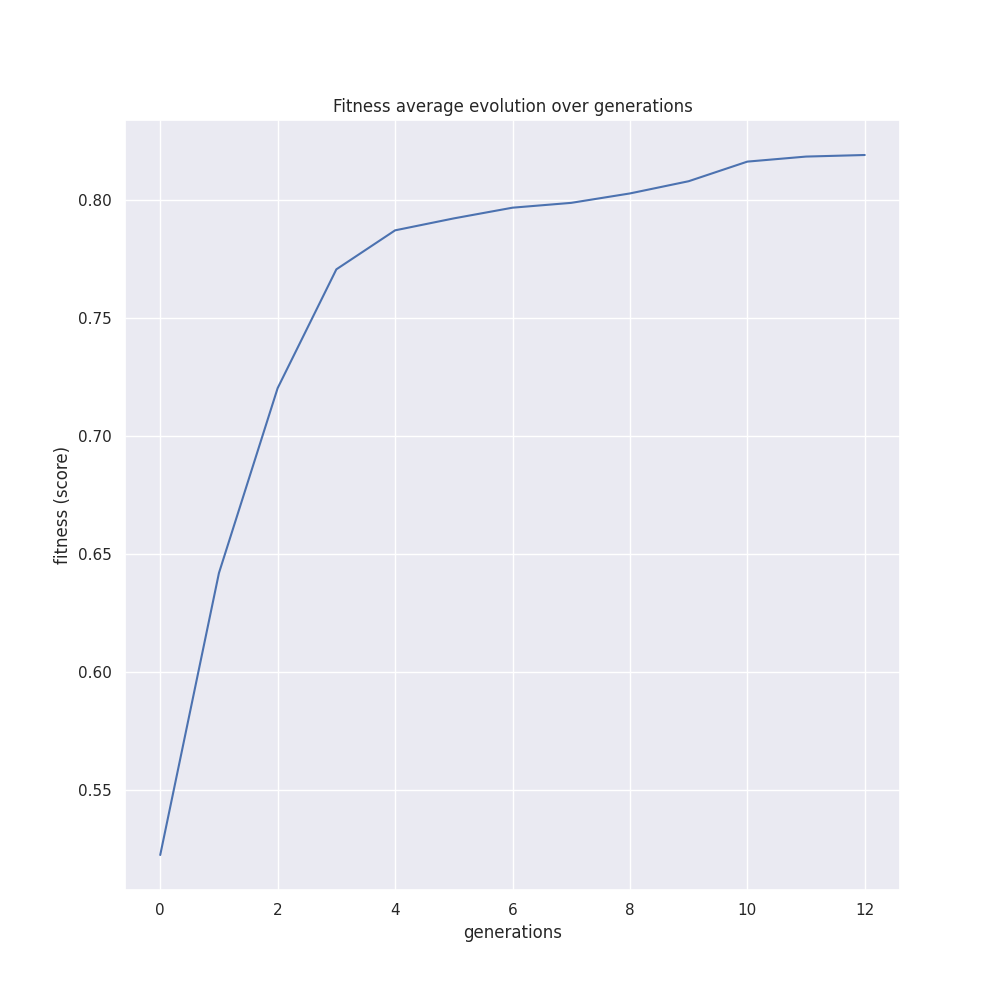
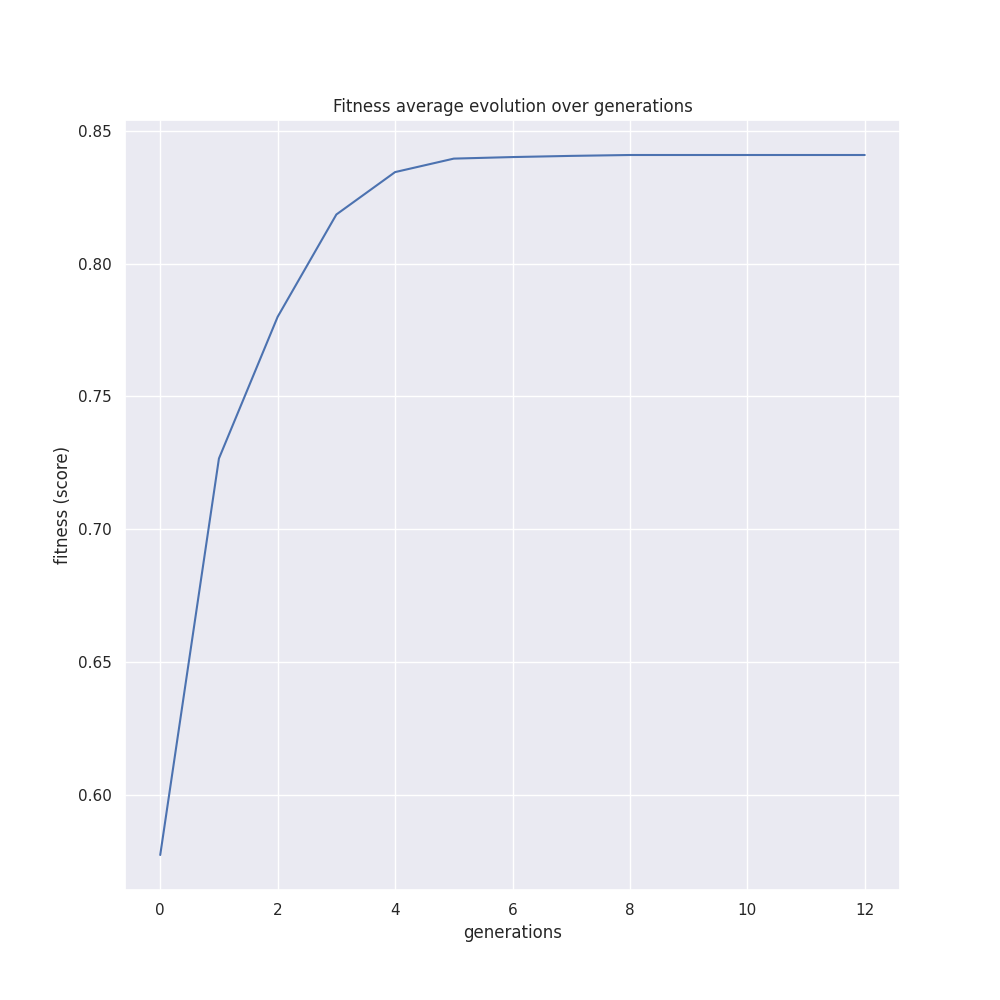
KNN now uses normalised scaling; neural network uses standard scaling still. Added gender to the X data. Various graphs had to be updated. NN params updated. Evaluation of knowledge algorithm underway.

diff --git a/helper.py b/helper.py
@@ -1,6 +1,6 @@
 import numpy as np
 import scipy.sparse
-from sklearn.preprocessing import MultiLabelBinarizer, StandardScaler
+from sklearn.preprocessing import MultiLabelBinarizer, MinMaxScaler, StandardScaler
 import pandas as pd
 from scipy import sparse
 import matplotlib.pyplot as plt
@@ -24,8 +24,13 @@ def generate_neurons(max_depth: int, average_neurons_per_layer: int) -> list:
         to_return.append(my_tuple)
     return to_return
 
-def scale_data(X: np.ndarray) -> np.ndarray:
-    scaler = StandardScaler(with_mean=True, copy=True)
+def normalise_data(X: np.ndarray) -> np.ndarray:
+    scaler = MinMaxScaler(copy=True)
+    scaler.fit(X)
+    return scaler.transform(X)
+
+def standardise_data(X: np.ndarray) -> np.ndarray:
+    scaler = StandardScaler(copy=True)
     scaler.fit(X)
     return scaler.transform(X)
 
@@ -93,22 +98,26 @@ def partial_accuracy_callable(coder_1, coder_2):
         total_accuracy += subtotal_accuracy
     return total_accuracy / len(coder_1)
 
-def get_data(data_file: str):
+def get_data(data_file: str, format="numpy"):
     """
     A function that extracts and transforms the data.
     :param data_file: A string representing the filename
-    :return: X, a multidimensional numpy array, and Y, a binary numpy array
+    :return: X, a multidimensional numpy array (if numpy is chosen; else pandas dataframe),
+    and Y, a binary numpy array (else list of lists)
     """
     training_set = pd.read_csv("Data/" + data_file)
     # Drop nuisance variables
-    training_set.drop(labels=['participant_id', 'gender', 'Coder', 'Explanation'], axis=1, inplace=True)
+    training_set.drop(labels=['participant_id', 'Coder', 'Explanation'], axis=1, inplace=True)
     # Don't forget to transform these variables to 0/1
     training_set['diabetes'] = [1 if x == 'yes' else 0 for x in training_set['diabetes']]
     training_set['chd'] = [1 if x == 'yes' else 0 for x in training_set['chd']]
-    X = training_set.drop(labels=['Labels'], axis=1).to_numpy()
+    training_set['gender'] = [1 if x == 'male' else 0 for x in training_set['gender']]
+    X = training_set.drop(labels=['Labels'], axis=1)
     Y = [[int(y) for y in x.split(",")] for x in training_set['Labels']]
-    Y_transformed = mlb.transform(Y)
-    return X, Y_transformed
+    if format=="numpy":
+        Y = mlb.transform(Y)
+        X = X.to_numpy()
+    return X, Y
 
 def count_mismatch_proportion(list1, list2) -> float:
     if len(list1) != len(list2):

diff --git a/sgd_neural_network.py b/sgd_neural_network.py
@@ -1,6 +1,6 @@
 from sklearn.neural_network import MLPClassifier
 from helper import get_data, partial_accuracy, inverse_transform, \
-    partial_accuracy_callable, scale_data, plot_label_accuracy
+    partial_accuracy_callable, standardise_data, plot_label_accuracy
 from sklearn.model_selection import train_test_split, KFold, cross_val_score
 import json
 from sklearn.metrics import hamming_loss, make_scorer, accuracy_score
@@ -11,7 +11,7 @@ import matplotlib.pyplot as plt
 
 X, Y = get_data("training_set.csv")
 # Make sure to scale X – very important!
-X = scale_data(X)
+X = standardise_data(X)
 x_train, x_test = train_test_split(X, train_size=0.8, random_state=101)
 y_train, y_test = train_test_split(Y, train_size=0.8, random_state=101)
 
@@ -24,7 +24,7 @@ neural_network = MLPClassifier(solver='sgd', activation='relu', learning_rate_in
                                hidden_layer_sizes=tuple(params['hidden_layer_sizes']),
                                power_t=params['power_t'],
                                momentum=params['momentum'],
-                               alpha=0.006, #seems like a good value from the graph
+                               alpha=0.0005, #best value from the graph
                                random_state=101)
 
 scores = cross_val_score(neural_network, X, Y,
@@ -68,7 +68,9 @@ print("The mean strict accuracy is ", mean(scores_strict_accuracy), "Stdev is ",
 neural_network.fit(x_train, y_train)
 print("Predictions ", inverse_transform(neural_network.predict(x_test)))
 print("Truth: ", inverse_transform(y_test))
+count = 0
 for labels in inverse_transform(y_test):
     if 11 in set(labels):
-        print("Truth has recommendation 11")
+        count += 1
+print("label 11 comes up ", count, " times")
 plot_label_accuracy(model_name="SGD Neural Network", truth=y_test, predictions=neural_network.predict(x_test))

diff --git a/knn.py b/knn.py
@@ -2,13 +2,13 @@ from skmultilearn.adapt import MLkNN, BRkNNaClassifier
 from sklearn.model_selection import GridSearchCV, train_test_split, KFold, cross_val_score
 from sklearn.metrics import hamming_loss, make_scorer, accuracy_score
 from helper import partial_accuracy, partial_accuracy_callable, \
-    count_mismatch_proportion, label_accuracy, get_data, inverse_transform, scale_data, plot_label_accuracy
+    count_mismatch_proportion, label_accuracy, get_data, inverse_transform, normalise_data, plot_label_accuracy
 import numpy as np
 from statistics import mean, stdev
 import matplotlib.pyplot as plt
 
 X, Y = get_data("training_set.csv")
-X = scale_data(X)
+X = normalise_data(X)
 x_train, x_test = train_test_split(X, train_size=0.8, random_state=101)
 y_train, y_test = train_test_split(Y, train_size=0.8, random_state=101)
 print(x_test.shape, y_test.shape)
@@ -24,7 +24,7 @@ def optimise_mlknn():
     print('best parameters :', classifier.best_params_, 'Best Hamming Loss: ',
           -1 * classifier.best_score_)
 
-optimise_mlknn()
+
 # Optimal params are k=19, s=0.5
 model = MLkNN(k=19, s=0.5)
 kfold = KFold(n_splits=5, random_state=101, shuffle=True)

diff --git a/optimise_sgd_nn.py b/optimise_sgd_nn.py
@@ -1,6 +1,6 @@
 from sklearn.neural_network import MLPClassifier
 from my_nn import my_nn
-from helper import get_data, partial_accuracy, inverse_transform, partial_accuracy_callable, generate_neurons, scale_data
+from helper import get_data, standardise_data, partial_accuracy_callable, generate_neurons
 from sklearn_genetic.plots import plot_fitness_evolution
 import matplotlib.pyplot as plt
 from sklearn_genetic import GASearchCV
@@ -15,7 +15,8 @@ import os
 
 X, Y = get_data("training_set.csv")
 # Make sure to scale X – very important!
-X = scale_data(X)
+# Standard scaling works better for the NN than normalisation
+X = standardise_data(X)
 x_train, x_test = train_test_split(X, train_size=0.8, random_state=101)
 y_train, y_test = train_test_split(Y, train_size=0.8, random_state=101)
 

diff --git a/evaluate_knowledge_algorithm.py b/evaluate_knowledge_algorithm.py
@@ -1,0 +1,14 @@
+from knowledge_algorithm import knowledge_model
+from helper import get_data, partial_accuracy
+import pandas as pd
+
+X, Y = get_data("training_set.csv", format="pandas")
+
+print(X.head)
+X = X.to_dict(orient='list')
+
+
+for i in range(len(X['calories'])):
+    patient = {'calories': X['calories'][i],
+               'sleep': X['Sleep Duration (hr/night)'][i],
+               'sleep_quality': X['SleepQuality'][i]}

diff --git a/decision_tree.py b/decision_tree.py
@@ -6,7 +6,6 @@ from sklearn.metrics import hamming_loss, make_scorer, accuracy_score
 from sklearn.model_selection import train_test_split, KFold, cross_val_score
 from skmultilearn.problem_transform import BinaryRelevance
 from helper import partial_accuracy_callable, plot_label_accuracy
-
 from helper import get_data, partial_accuracy, label_accuracy, inverse_transform
 
 X, Y = get_data("training_set.csv")
